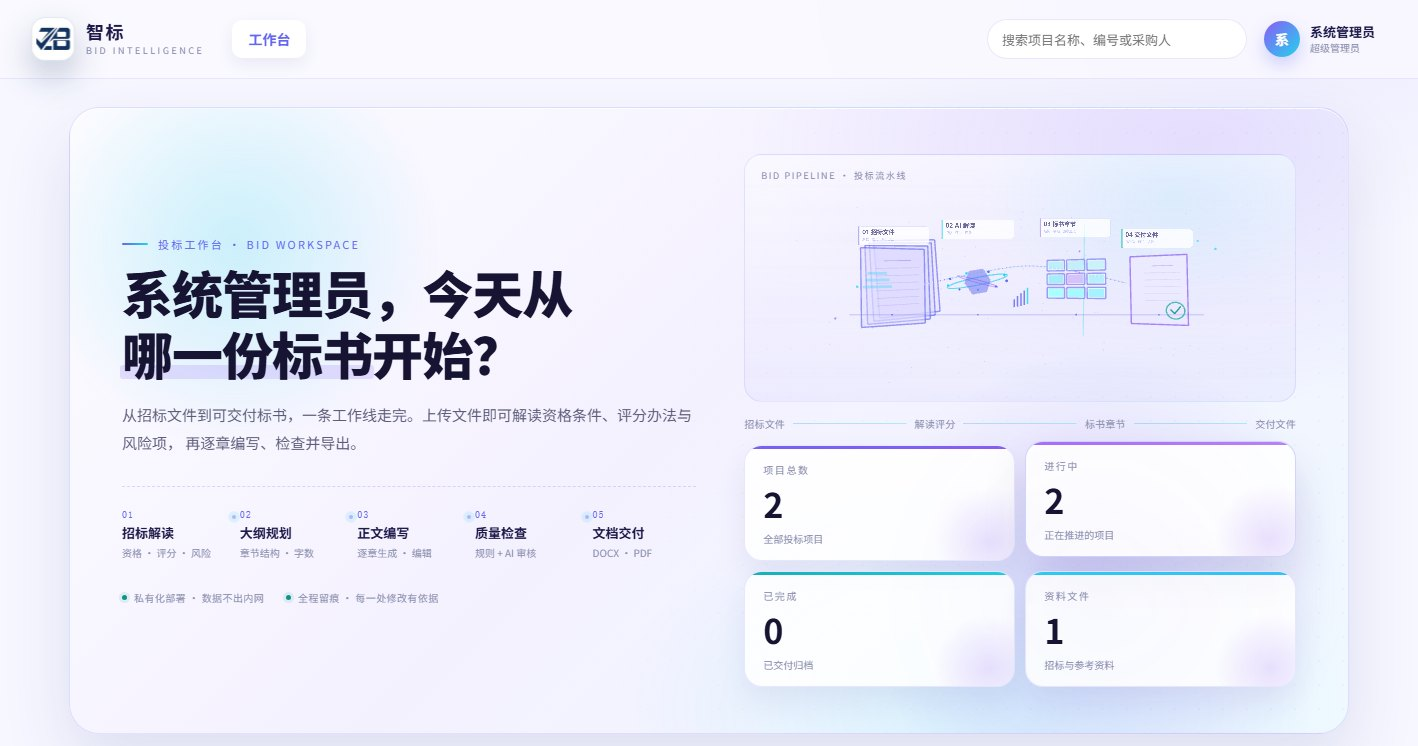
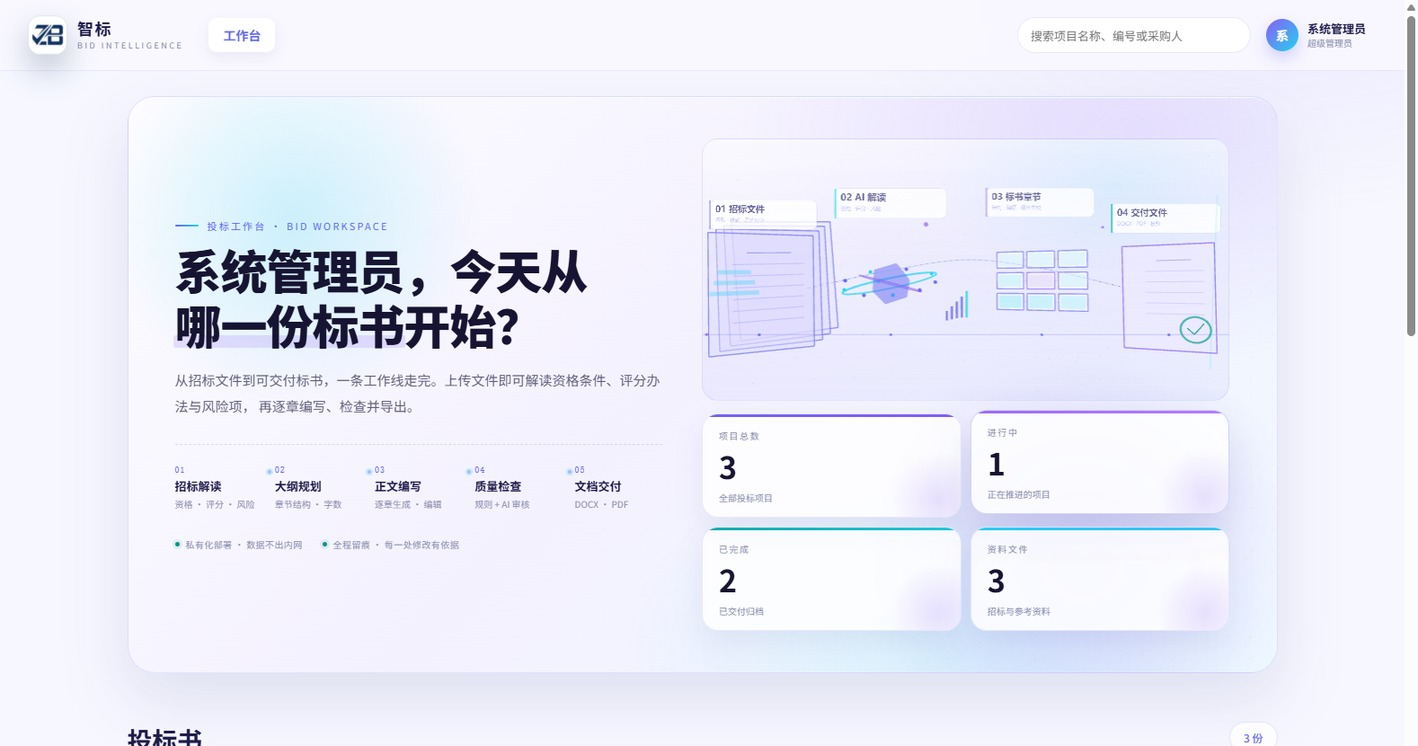
feat(web): 放大工作台三维流水线场景
- 按场景实际占位反推镜头距离，让流水线填满卡片
- 场景卡片高度加大、右栏加宽，标签不再被裁切
- 更新 README 工作台截图

diff --git a/packages/web/renderer-v2/src/components/PipelineScene.tsx b/packages/web/renderer-v2/src/components/PipelineScene.tsx
@@ -83,9 +83,20 @@ export function PipelineScene({ dense = false }: Props) {
     const reduced = window.matchMedia('(prefers-reduced-motion: reduce)').matches;
     const width = container.clientWidth || 800;
     const height = container.clientHeight || 360;
+    const fov = 42;
     const scene = new THREE.Scene();
-    const camera = new THREE.PerspectiveCamera(42, width / height, 0.1, 140);
-    const baseCamera = new THREE.Vector3(0, compact ? 1.2 : 1.8, compact ? 23 : 20);
+    const camera = new THREE.PerspectiveCamera(fov, width / height, 0.1, 140);
+    // 按场景实际占位反推镜头距离：站点与标签横跨约 21.5，纵向内容约 7.2。
+    // 旧实现固定 20，卡片里只占中间一条，红框区域显得很小。
+    const fitCameraZ = (aspect: number) => {
+      const halfTan = Math.tan(THREE.MathUtils.degToRad(fov) / 2);
+      return Math.max(
+        compact ? 21 : 12,
+        7.2 / (2 * halfTan),
+        21.5 / (2 * halfTan * Math.max(0.8, aspect)),
+      );
+    };
+    const baseCamera = new THREE.Vector3(0, compact ? 1.2 : 1.4, fitCameraZ(width / height));
     camera.position.copy(baseCamera);
     camera.lookAt(0, 0.6, 0);
 
@@ -97,7 +108,7 @@ export function PipelineScene({ dense = false }: Props) {
     container.appendChild(renderer.domElement);
 
     const group = new THREE.Group();
-    group.position.set(compact ? 0 : dense ? 2.4 : 0.4, 0.1, 0);
+    group.position.set(compact ? 0 : dense ? 2.4 : 0, -0.25, 0);
     group.scale.setScalar(compact ? 0.74 : dense ? 0.92 : 1.2);
     scene.add(group);
 
@@ -630,6 +641,8 @@ export function PipelineScene({ dense = false }: Props) {
       renderer.setPixelRatio(Math.min(window.devicePixelRatio || 1, compact ? 1.5 : 2));
       renderer.setSize(nextWidth, nextHeight, false);
       camera.aspect = nextWidth / nextHeight;
+      baseCamera.z = fitCameraZ(camera.aspect);
+      camera.position.z = baseCamera.z;
       camera.updateProjectionMatrix();
       if (reduced) applyStatic();
     };

diff --git a/packages/web/renderer-v2/src/styles.css b/packages/web/renderer-v2/src/styles.css
@@ -3409,8 +3409,8 @@ body {
 }
 
 .hero {
-  grid-template-columns: minmax(0, 1.02fr) minmax(380px, 0.98fr);
-  gap: 48px;
+  grid-template-columns: minmax(0, 0.96fr) minmax(420px, 1.04fr);
+  gap: 44px;
   min-height: 460px;
   padding: 46px 52px;
 }
@@ -3426,7 +3426,7 @@ body {
 
 .hero-visual {
   position: relative;
-  height: 248px;
+  height: 292px;
   overflow: hidden;
   border: 1px solid rgba(99, 102, 241, 0.14);
   border-radius: 18px;
@@ -4730,7 +4730,7 @@ body {
   }
 
   .hero-visual {
-    height: 210px;
+    height: 250px;
     border-radius: 15px;
   }
 
